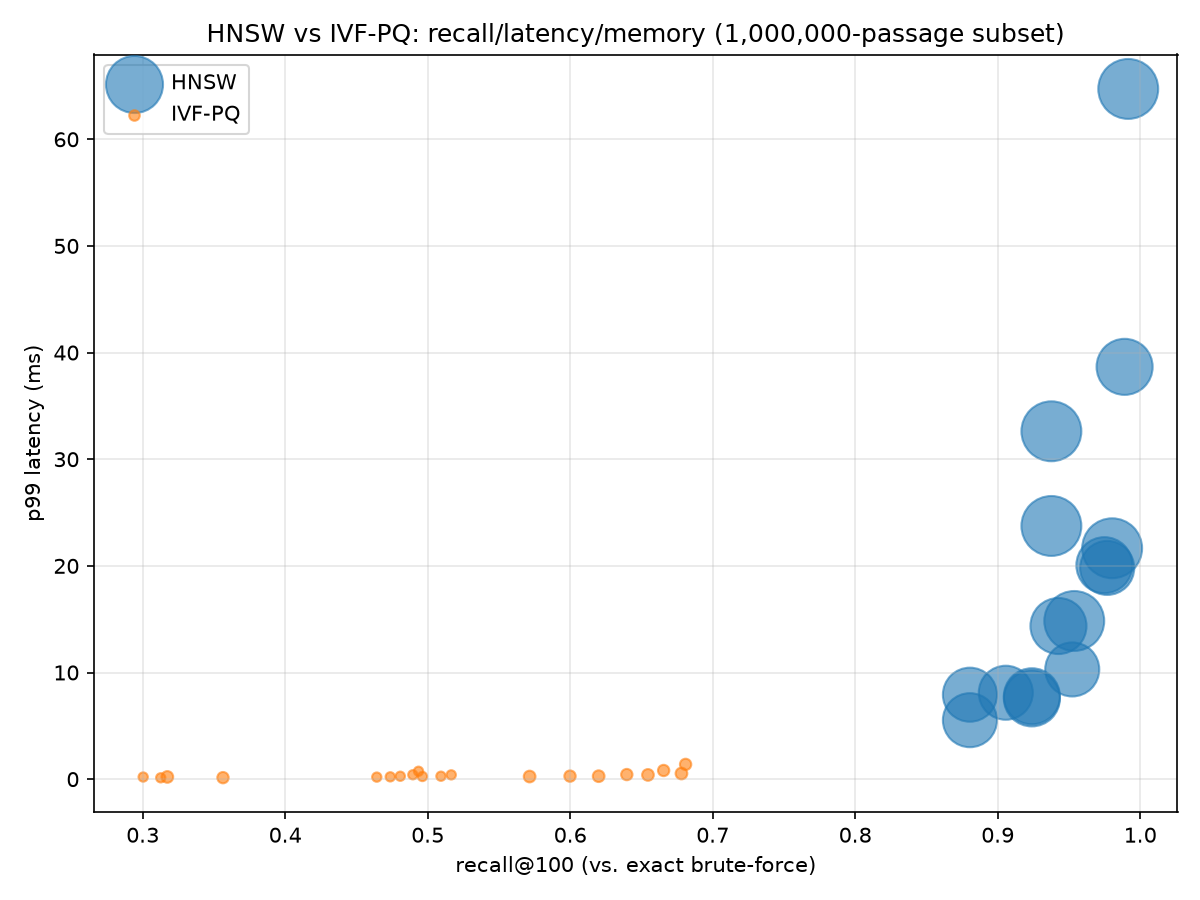
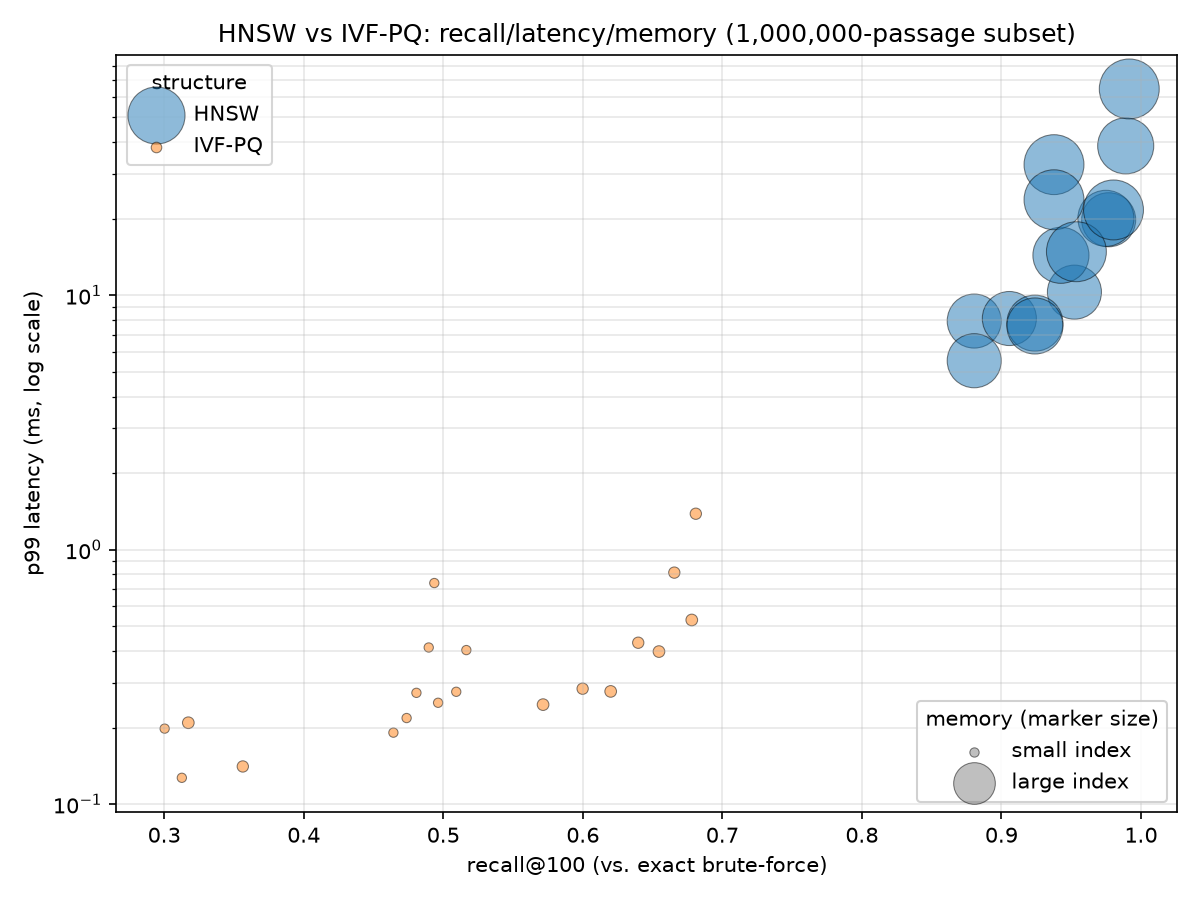
phase3: final fix wave -- rel_threshold, device/git_dirty provenance, doc fixes
Final whole-branch review found four Important findings plus a bundle of
cheap Minors; this is the fix wave for all of them (no further review round
follows, so all ten items are addressed together):

- fusion.py silently defaulted rel_threshold to 1 instead of the project's
  standard 2 for dl19/dl20, understating recall@1000 for every fusion row.
  Now derives the threshold from harness.datasets.rel_threshold, asserting
  both query sets agree (breaks loudly instead of silently picking one if a
  future query set disagrees), and records rel_threshold/run_depth/
  shallow_metrics in dense-fusion.json -- run_depth/shallow_metrics per row,
  since rrf/score_fusion's fused run_depth (union of both channels) differs
  from lexical_only/dense_only's. Reran dense.fusion: NDCG@10 unchanged
  (byte-identical, confirming only the threshold moved) while recall@1000
  rose for all four rows (0.7308->0.7716, 0.8720->0.9070, 0.8927->0.9245,
  0.8925->0.9216).
- bench/phase3.md's corpus-subset limitation paragraph, true for the Pareto
  frontier, was silently wrong for the fusion table (8.8M-doc lexical
  channel vs 1M-doc dense channel) -- added the missing caveat plus a short
  interpretation of the actual fusion result.
- Added a MEASURED_DEVICE constant (mirroring subset.py's SEED pattern) so
  bench/phase3.md's Configuration section records the device (mps) that
  produced the committed embeddings, same class of gap as the already-fixed
  seed omission.
[…]

diff --git a/py/dense/report.py b/py/dense/report.py
@@ -12,6 +12,7 @@ import matplotlib
 matplotlib.use("Agg")
 import matplotlib.pyplot as plt
 
+from dense.encode import MEASURED_DEVICE
 from dense.subset import SEED as SUBSET_SEED
 
 REPO_ROOT = Path(__file__).resolve().parents[2]
@@ -27,12 +28,26 @@ def render_pareto_plot(sweep: dict, output_path: Path) -> None:
         recalls = [p["recall_at_100"] for p in points]
         p99_ms = [p["latency_us"]["p99_us"] / 1000 for p in points]
         sizes = [max(20.0, p["memory_gb"] * 400) for p in points]
-        ax.scatter(recalls, p99_ms, s=sizes, alpha=0.6, color=color, label=label)
+        ax.scatter(
+            recalls, p99_ms, s=sizes, alpha=0.5, color=color, label=label,
+            edgecolors="black", linewidths=0.5,
+        )
     ax.set_xlabel("recall@100 (vs. exact brute-force)")
-    ax.set_ylabel("p99 latency (ms)")
+    ax.set_ylabel("p99 latency (ms, log scale)")
+    # Linear y collapsed all 20 IVF-PQ points (p99 0.13-1.38ms) to ~0 next to
+    # HNSW's 5-65ms range, hiding the IVF-PQ latency story entirely.
+    ax.set_yscale("log")
     ax.set_title(f"HNSW vs IVF-PQ: recall/latency/memory ({sweep['subset_size']:,}-passage subset)")
-    ax.legend()
-    ax.grid(True, alpha=0.3)
+    structure_legend = ax.legend(loc="upper left", title="structure")
+    ax.add_artist(structure_legend)
+    size_handles = [
+        ax.scatter([], [], s=20.0, color="gray", alpha=0.5, edgecolors="black",
+                   linewidths=0.5, label="small index"),
+        ax.scatter([], [], s=400.0, color="gray", alpha=0.5, edgecolors="black",
+                   linewidths=0.5, label="large index"),
+    ]
+    ax.legend(handles=size_handles, loc="lower right", title="memory (marker size)", framealpha=0.9)
+    ax.grid(True, alpha=0.3, which="both")
     fig.tight_layout()
     output_path.parent.mkdir(parents=True, exist_ok=True)
     fig.savefig(output_path, dpi=150)
@@ -80,7 +95,12 @@ This machine has 8GB RAM and no GPU. The full 8.8M-passage corpus would need
 subsets to **{sweep['subset_size']:,} passages**: every document judged in the
 dl19+dl20 qrels, plus a seeded random fill. The Pareto-frontier finding (which
 ANN structure wins at which recall target) does not depend on corpus size;
-only the absolute latency/memory numbers would shift at 8.8M.
+only the absolute latency/memory numbers would shift at 8.8M. This does *not*
+extend to the fusion table below: there, the lexical channel searches the
+full 8.8M-passage corpus (Phase 1's WAND run) while the dense channel only
+searches this 1M-passage subset, so `dense_only` vs. `lexical_only` NDCG@10 is
+not a like-for-like comparison of the two retrieval methods -- it's partly an
+artifact of the dense channel's much smaller, guaranteed-relevant-doc haystack.
 
 Encoder: `BAAI/bge-small-en-v1.5`. Evaluated over {sweep['num_dev_queries']}
 dev queries (recall@100 / latency) and dl19+dl20 (fusion table).
@@ -91,16 +111,32 @@ dev queries (recall@100 / latency) and dl19+dl20 (fusion table).
 
 {render_sweep_table(sweep)}
 
+HNSW's efSearch=32 and efSearch=64 rows show byte-identical recall@100 at
+every M: hnswlib internally clamps effective ef to at least k (100), so both
+nominal values run the same effective search. The p99 latency differences
+between those two rows are measurement noise, not signal.
+
 ## Hybrid fusion (dl19+dl20)
 
 {render_fusion_table(fusion)}
 
+Equal-weight RRF and score fusion both land between `lexical_only` and
+`dense_only` on NDCG@10 -- below `dense_only`, since fusion dilutes the
+stronger (but corpus-asymmetric, see above) dense channel with the weaker
+lexical one -- while gaining a bit over both on recall@1000, since fusing
+unions two largely disjoint document sets, which mechanically raises recall
+regardless of ranking quality.
+
 ## Configuration
 
 - subset seed: {SUBSET_SEED}
+- device: {MEASURED_DEVICE}
 - git SHA: `{provenance['git_sha']}`
 - hardware: {provenance['hardware']['cpu']}, {int(int(provenance['hardware']['memory_bytes']) / 1e9)}GB RAM
 - timestamp: {provenance['timestamp_utc']}
+- note: the sweep, fusion, and memory-remeasurement runs that produced this
+  report's data were all against a dirty working tree (`git_dirty: true` in
+  each result JSON's own provenance block)
 """
 
 

diff --git a/py/dense/ann_sweep.py b/py/dense/ann_sweep.py
@@ -7,11 +7,23 @@ Latency is measured single-threaded, one search() call per dev query
 use one thread per call so their own internal multithreading doesn't
 blur a single-query measurement.
 
-Memory footprint is a getrusage RSS delta around each build call.
-Platform-specific: ru_maxrss is *bytes* on macOS (this project's only
-target platform), *kilobytes* on Linux -- verified empirically at
-plan-writing time. Divide by 1e9 for GB; do not port this constant
-elsewhere without re-checking.
+Memory footprint, as implemented below (current_rss_gb, a getrusage RSS
+delta around each build call), describes this script's *original*
+methodology only. It has a known same-process high-water-mark flaw: running
+all seven builds (3 HNSW + 4 IVF-PQ) sequentially in one process means only
+the first heavy allocation produces a meaningful delta -- every later
+build's "before" baseline already sits at or above its own peak, so its
+delta reads near-zero (this is exactly what happened: 30/35 points read
+memory_gb=0.0 or non-monotonic on the real run). The `memory_gb` values
+actually committed in bench/results/dense-ann-sweep.json were NOT produced
+by rerunning this script -- they came from a separate one-off remeasurement
+that switched to serialized-index-size (hnswlib save_index / faiss
+serialize_index byte length), which is deterministic and immune to this
+bug. See that JSON's own top-level `memory_measurement` field for the real
+method and provenance. Platform note (still true of the RSS path below):
+ru_maxrss is *bytes* on macOS (this project's only target platform),
+*kilobytes* on Linux -- verified empirically at plan-writing time. Divide
+by 1e9 for GB; do not port this constant elsewhere without re-checking.
 """
 
 from __future__ import annotations
@@ -46,7 +58,15 @@ faiss.omp_set_num_threads(1)
 
 
 def current_rss_gb() -> float:
-    """macOS: ru_maxrss is bytes. See module docstring."""
+    """macOS: ru_maxrss is bytes. See module docstring.
+
+    Known bug (see module docstring): same-process high-water-mark RSS makes
+    every build after the first read a near-zero delta. Rerunning this script
+    will NOT reproduce the memory_gb values currently committed in
+    bench/results/dense-ann-sweep.json -- those came from a separate
+    serialized-index-size remeasurement (see that JSON's memory_measurement
+    field), not from this function.
+    """
     return resource.getrusage(resource.RUSAGE_SELF).ru_maxrss / 1e9
 
 

diff --git a/py/dense/fusion.py b/py/dense/fusion.py
@@ -12,7 +12,7 @@ from __future__ import annotations
 import json
 from pathlib import Path
 
-from harness.datasets import load_qrels
+from harness.datasets import load_qrels, rel_threshold
 from harness.metrics import evaluate
 from harness.runfile import read_run
 from harness.runmeta import run_metadata
@@ -92,6 +92,17 @@ def fuse_run(
 
 
 def main() -> None:
+    # Both query sets pooled into a single evaluate() call, which takes one
+    # rel_threshold for the whole run -- assert they actually agree instead of
+    # silently picking one, so this breaks loudly if a future query set with a
+    # different threshold is ever added to QUERY_SETS.
+    thresholds = {rel_threshold(query_set) for query_set in QUERY_SETS}
+    assert len(thresholds) == 1, (
+        f"pooled evaluate() takes a single rel_threshold; got {thresholds} "
+        f"across {QUERY_SETS}"
+    )
+    threshold = thresholds.pop()
+
     all_qrels: dict[str, dict[str, int]] = {}
     lexical_run: dict[str, dict[str, float]] = {}
     dense_run: dict[str, dict[str, float]] = {}
@@ -109,11 +120,20 @@ def main() -> None:
 
     results = {}
     for name, run in rows.items():
-        eval_result = evaluate(all_qrels, run, ndcg_k=(10,), recall_k=(1000,))
+        eval_result = evaluate(
+            all_qrels, run, ndcg_k=(10,), recall_k=(1000,), rel_threshold=threshold
+        )
+        # run_depth/shallow_metrics are per-row, not per-file: lexical_only and
+        # dense_only are each a single 1000-deep run, but rrf/score_fusion fuse
+        # the union of both channels' docids per query, so their run_depth can
+        # run past 1000. Copying a single top-level run_depth (Phase 1's shape,
+        # one run per file) would be wrong for the fused rows.
         results[name] = {
             "ndcg_10": eval_result.mean["ndcg_cut_10"],
             "recall_1000": eval_result.mean["recall_1000"],
             "num_queries": eval_result.num_queries,
+            "run_depth": eval_result.run_depth,
+            "shallow_metrics": eval_result.shallow_metrics,
         }
         print(
             f"{name:>14}: ndcg@10={results[name]['ndcg_10']:.4f} "
@@ -123,6 +143,7 @@ def main() -> None:
     output = {
         "query_sets": list(QUERY_SETS),
         "rrf_k": RRF_K,
+        "rel_threshold": threshold,
         "results": results,
         "provenance": run_metadata(),
     }

diff --git a/py/dense/ground_truth.py b/py/dense/ground_truth.py
@@ -2,11 +2,11 @@
 via faiss.IndexFlatIP. Two outputs, two purposes:
 
   - dev query set (6,980 queries): the recall@100 reference and latency
-    source for the ANN sweep (dense_recall/ann_sweep.py). Top-100 only --
+    source for the ANN sweep (dense/ann_sweep.py). Top-100 only --
     recall@100 needs no more, and dev's query count makes top-1000 an
     unreasonably large commit (~140MB vs ~14MB at top-100).
   - dl19+dl20 query set (97 queries): the exact dense channel for hybrid
-    fusion (dense_recall/fusion.py), which needs recall@1000. Using the
+    fusion (dense/fusion.py), which needs recall@1000. Using the
     *exact* ranking here (not an ANN approximation) isolates "does fusion
     help" from "how good is the ANN approximation" -- a separate question
     the Pareto sweep already answers.
@@ -65,6 +65,11 @@ def main() -> None:
     embeddings = np.load(DATA_DIR / "dense-embeddings.npy")
     docids = np.load(DATA_DIR / "dense-docids.npy")
     assert embeddings.shape[0] == SUBSET_SIZE
+    assert docids.shape[0] == embeddings.shape[0], (
+        "dense-embeddings.npy and dense-docids.npy are out of sync -- encode.py "
+        "writes them in two separate steps, so a crash between those writes "
+        "would otherwise go undetected here"
+    )
     index = build_flat_index(embeddings)
 
     dev_results = run_query_set(index, docids, "dev", k=100)

diff --git a/py/dense/encode.py b/py/dense/encode.py
@@ -43,6 +43,14 @@ BATCH_SIZE = 32
 CHUNK_SIZE = 50_000
 QUERY_SETS = ("dev", "dl19", "dl20")
 
+# select_device() detects whatever this *host* has at call time -- fine for
+# actually running encode.py, wrong for a report reading it later, since the
+# report needs to say what device produced the *committed* embeddings, not
+# what's available on whatever machine happens to render the report. This is
+# a recorded literal, not a re-detection: this repo's only real encoding run
+# (see the SDD ledger's Task 3 notes) used MPS.
+MEASURED_DEVICE = "mps"
+
 
 def apply_query_prefix(text: str) -> str:
     return QUERY_PREFIX + text

diff --git a/bench/phase3.md b/bench/phase3.md
@@ -7,7 +7,12 @@ This machine has 8GB RAM and no GPU. The full 8.8M-passage corpus would need
 subsets to **1,000,000 passages**: every document judged in the
 dl19+dl20 qrels, plus a seeded random fill. The Pareto-frontier finding (which
 ANN structure wins at which recall target) does not depend on corpus size;
-only the absolute latency/memory numbers would shift at 8.8M.
+only the absolute latency/memory numbers would shift at 8.8M. This does *not*
+extend to the fusion table below: there, the lexical channel searches the
+full 8.8M-passage corpus (Phase 1's WAND run) while the dense channel only
+searches this 1M-passage subset, so `dense_only` vs. `lexical_only` NDCG@10 is
+not a like-for-like comparison of the two retrieval methods -- it's partly an
+artifact of the dense channel's much smaller, guaranteed-relevant-doc haystack.
 
 Encoder: `BAAI/bge-small-en-v1.5`. Evaluated over 6980
 dev queries (recall@100 / latency) and dl19+dl20 (fusion table).
@@ -54,18 +59,34 @@ dev queries (recall@100 / latency) and dl19+dl20 (fusion table).
 | ivfpq | nlist=1024 m=32 nprobe=1 | 0.3126 | 0.09 | 0.13 | 0.042 |
 | ivfpq | nlist=4096 m=32 nprobe=1 | 0.3003 | 0.17 | 0.20 | 0.047 |
 
+HNSW's efSearch=32 and efSearch=64 rows show byte-identical recall@100 at
+every M: hnswlib internally clamps effective ef to at least k (100), so both
+nominal values run the same effective search. The p99 latency differences
+between those two rows are measurement noise, not signal.
+
 ## Hybrid fusion (dl19+dl20)
 
 | channel | NDCG@10 | recall@1000 |
 |---|---|---|
-| lexical_only | 0.4903 | 0.7308 |
-| dense_only | 0.7167 | 0.8720 |
-| rrf | 0.6414 | 0.8927 |
-| score_fusion | 0.6577 | 0.8925 |
+| lexical_only | 0.4903 | 0.7716 |
+| dense_only | 0.7167 | 0.9070 |
+| rrf | 0.6414 | 0.9245 |
+| score_fusion | 0.6577 | 0.9216 |
+
+Equal-weight RRF and score fusion both land between `lexical_only` and
+`dense_only` on NDCG@10 -- below `dense_only`, since fusion dilutes the
+stronger (but corpus-asymmetric, see above) dense channel with the weaker
+lexical one -- while gaining a bit over both on recall@1000, since fusing
+unions two largely disjoint document sets, which mechanically raises recall
+regardless of ranking quality.
 
 ## Configuration
 
 - subset seed: 0
+- device: mps
 - git SHA: `009e697299cc3fedf1a929b681416e7db1543537`
 - hardware: Apple M2, 8GB RAM
 - timestamp: 2026-08-20T12:17:46.406014+00:00
+- note: the sweep, fusion, and memory-remeasurement runs that produced this
+  report's data were all against a dirty working tree (`git_dirty: true` in
+  each result JSON's own provenance block)

diff --git a/README.md b/README.md
@@ -23,6 +23,7 @@ Full design: [`CASCADE_SEARCH_PLAN.md`](CASCADE_SEARCH_PLAN.md).
 ```
 py/harness/     metrics, open-loop load generation, latency recording, run files
 py/baselines/   Lucene (Anserini) and Tantivy BM25 baselines, cascade C++ index driver
+py/dense/       dense encoding, ANN sweep (HNSW/IVF-PQ), hybrid fusion
 py/tests/       pytest suite
 cpp/index/      analyzer, Porter stemmer, postings codec, index builder
 cpp/query/      DAAT-OR, WAND, BlockMax-WAND over a shared cursor
@@ -31,7 +32,7 @@ cpp/tests/      correctness: BMW/WAND top-k == exhaustive top-k, on a synthetic 
 cpp/server/     gRPC service: bounded queue + worker pool + LRU cache
 py/server/      server client, process manager, throughput/cache experiments
 bench/results/  raw JSON per run — committed
-bench/          baselines.md, phase1.md, phase2a.md, plots, REPORT.md
+bench/          baselines.md, phase1.md, phase2a.md, phase3.md, plots, REPORT.md
 .tools/         JDK 21 and the Anserini fatjar (gitignored)
 data/ indexes/ runs/   corpora, built indexes, and run files (gitignored)
 ```
@@ -43,7 +44,7 @@ pybind11's headers, which come from the venv.
 
 ```bash
 uv sync --extra dev --extra baselines
-uv run pytest                      # 50 tests, no corpus needed
+uv run pytest                      # 62 tests, no corpus needed
 ```
 
 The baselines additionally need an arm64 JDK 21 and the Anserini fatjar in
